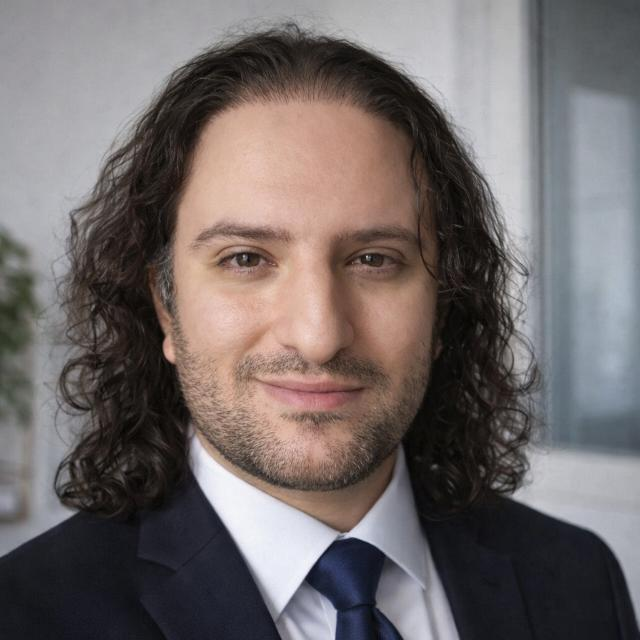
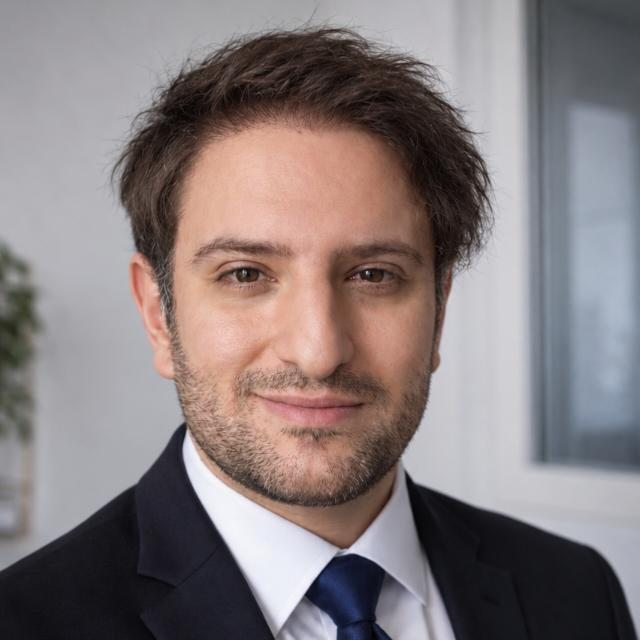
Neue Zamin-Fotos, Platzhalter live ausgeblendet, Darstellungsfehler behoben
- Zamin-Porträt (Pflaume) und Hero-Avatar durch neue Fotos ersetzt (JPG statt PNG, Astro liefert AVIF/WebP)
- helles Porträt (zamin-buero.jpg) aktualisiert
- Platzhalter in [eckigen Klammern] erscheinen nur noch lokal; live entfallen leere Felder,
  FAQ-Fragen ohne Antwort und der Video-Platzhalter
- Termin-Buttons führen zum Kontaktformular, solange kein cal.com-Link eingetragen ist;
  Instagram-Link erst mit echter Adresse
- eigene 404-Seite statt Netlify-Standardseite
- Silbentrennung in Leistungskarten, bündige Spalten bei „Warum Doktura“,
  Label-Strich bei mehrzeiligen Labels, Footer-Abstände, Leerzeichen vor Links in Rechtstexten
- Vorher/Nachher-Screenshots in docs/screenshots

diff --git a/src/site.config.ts b/src/site.config.ts
@@ -2,6 +2,10 @@
 // Kontaktdaten, Links und Rechtsangaben stehen in src/content/einstellungen.json
 // und lassen sich im Redaktionssystem (doktura.de/admin) unter „Einstellungen“ ändern.
 import s from './content/einstellungen.json';
+import { hasPlaceholder } from './placeholders';
+
+// Solange kein echter Terminlink (cal.com) eingetragen ist, führen die Termin-Buttons zum Kontaktformular.
+const calReady = !!s.calUrl && !hasPlaceholder(s.calUrl);
 
 export const site = {
   name: 'Doktura',
@@ -9,7 +13,10 @@ export const site = {
   description:
     'Finanzberatung ausschließlich für niedergelassene Ärzte: Absicherung, Praxis, Steuern und Vermögen aus einer Hand.',
 
-  calUrl: s.calUrl,
+  calReady,
+  calUrl: calReady ? s.calUrl : '/#kontakt',
+  calAttrs: (calReady ? { target: '_blank', rel: 'noopener' } : {}) as Record<string, string>,
+  calIcon: (calReady ? 'arrow-up-right' : 'arrow-right') as 'arrow-up-right' | 'arrow-right',
 
   contact: {
     person: s.kontakt.person,
@@ -18,7 +25,8 @@ export const site = {
     address: s.kontakt.adresse,
   },
 
-  instagram: s.instagram,
+  // leer oder Platzhalter: Instagram-Link wird ausgeblendet
+  instagram: s.instagram && !hasPlaceholder(s.instagram) ? s.instagram : '',
 
   // Meta Pixel: bleibt aus, solange hier nichts steht.
   // Lädt nur nach Zustimmung im Cookie-Banner (Kategorie „Marketing“).

diff --git a/src/placeholders.ts b/src/placeholders.ts
@@ -1,0 +1,19 @@
+// Platzhalter in eckigen Klammern, z. B. "[Angabe von Zamin]" (Links "[Text](/url)" zählen nicht).
+// Lokal (npm run dev) bleiben sie sichtbar markiert, damit klar ist, was noch fehlt.
+// Auf der Live-Seite werden sie ausgeblendet: Wo ohne Platzhalter noch ein ganzer Satz übrig
+// bleibt, steht nur dieser Satz da; sonst entfällt das Feld bzw. der ganze Abschnitt.
+const PH = /\[[^\]]+\](?!\()/g;
+
+export const showPlaceholders = import.meta.env.DEV;
+
+export function hasPlaceholder(text?: string | null): boolean {
+  return !!text && /\[[^\]]+\](?!\()/.test(text);
+}
+
+/** Text für die Ausgabe – oder null, wenn das Feld (noch) nicht gezeigt werden soll. */
+export function ready(text?: string | null): string | null {
+  if (!text || !text.trim()) return null;
+  if (showPlaceholders || !hasPlaceholder(text)) return text;
+  const rest = text.replace(PH, '').replace(/\s{2,}/g, ' ').trim();
+  return /[.!?…]$/.test(rest) ? rest : null;
+}

diff --git a/src/styles/global.css b/src/styles/global.css
@@ -73,7 +73,7 @@ button, input, textarea, select { font: inherit; color: inherit; }
   letter-spacing: var(--tracking-label); text-transform: uppercase;
   color: var(--c-gold-text);
 }
-.label::before { content: ''; width: 2rem; height: 1px; background: currentColor; }
+.label::before { content: ''; flex: none; align-self: flex-start; width: 2rem; height: 1px; margin-top: calc(0.5lh - 0.5px); background: currentColor; }
 .section--dark .label { color: var(--c-gold); }
 
 /* ---------- Button (ein einheitlicher Stil) ---------- */
